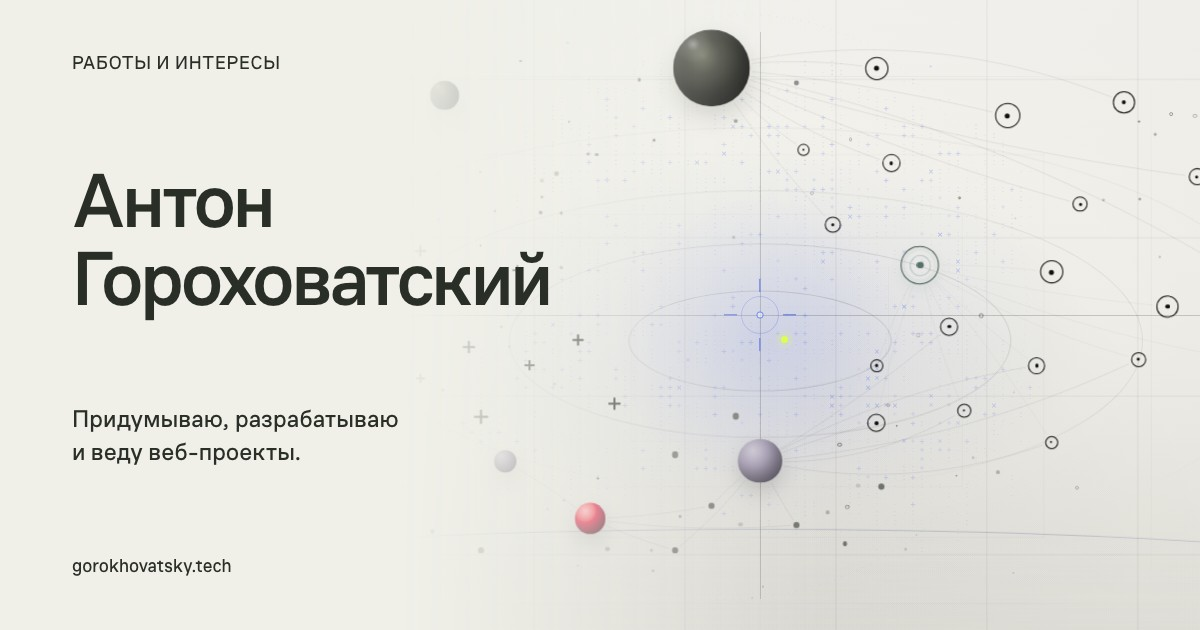
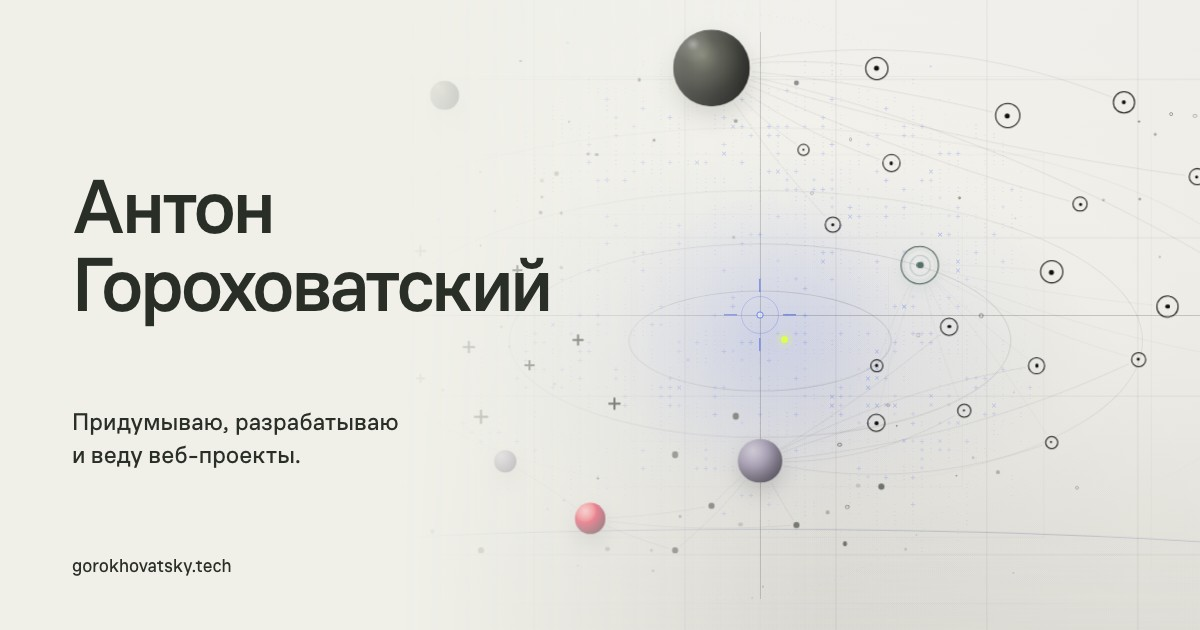
Remove redundant eyebrow from the share cover

diff --git a/index.html b/index.html
@@ -40,11 +40,11 @@
     <meta property="og:url" content="https://gorokhovatsky.tech/">
     <meta
       property="og:image"
-      content="https://gorokhovatsky.tech/assets/og-signal.jpg?v=2a4092618525"
+      content="https://gorokhovatsky.tech/assets/og-signal.jpg?v=fc483efeb8e3"
     >
     <meta
       property="og:image:secure_url"
-      content="https://gorokhovatsky.tech/assets/og-signal.jpg?v=2a4092618525"
+      content="https://gorokhovatsky.tech/assets/og-signal.jpg?v=fc483efeb8e3"
     >
     <meta property="og:image:type" content="image/jpeg">
     <meta property="og:image:width" content="1200">
@@ -64,7 +64,7 @@
     >
     <meta
       name="twitter:image"
-      content="https://gorokhovatsky.tech/assets/og-signal.jpg?v=2a4092618525"
+      content="https://gorokhovatsky.tech/assets/og-signal.jpg?v=fc483efeb8e3"
     >
     <meta
       name="twitter:image:alt"
@@ -225,8 +225,8 @@
           {
             "@type": "ImageObject",
             "@id": "https://gorokhovatsky.tech/#share-image",
-            "url": "https://gorokhovatsky.tech/assets/og-signal.jpg?v=2a4092618525",
-            "contentUrl": "https://gorokhovatsky.tech/assets/og-signal.jpg?v=2a4092618525",
+            "url": "https://gorokhovatsky.tech/assets/og-signal.jpg?v=fc483efeb8e3",
+            "contentUrl": "https://gorokhovatsky.tech/assets/og-signal.jpg?v=fc483efeb8e3",
             "encodingFormat": "image/jpeg",
             "width": 1200,
             "height": 630,
